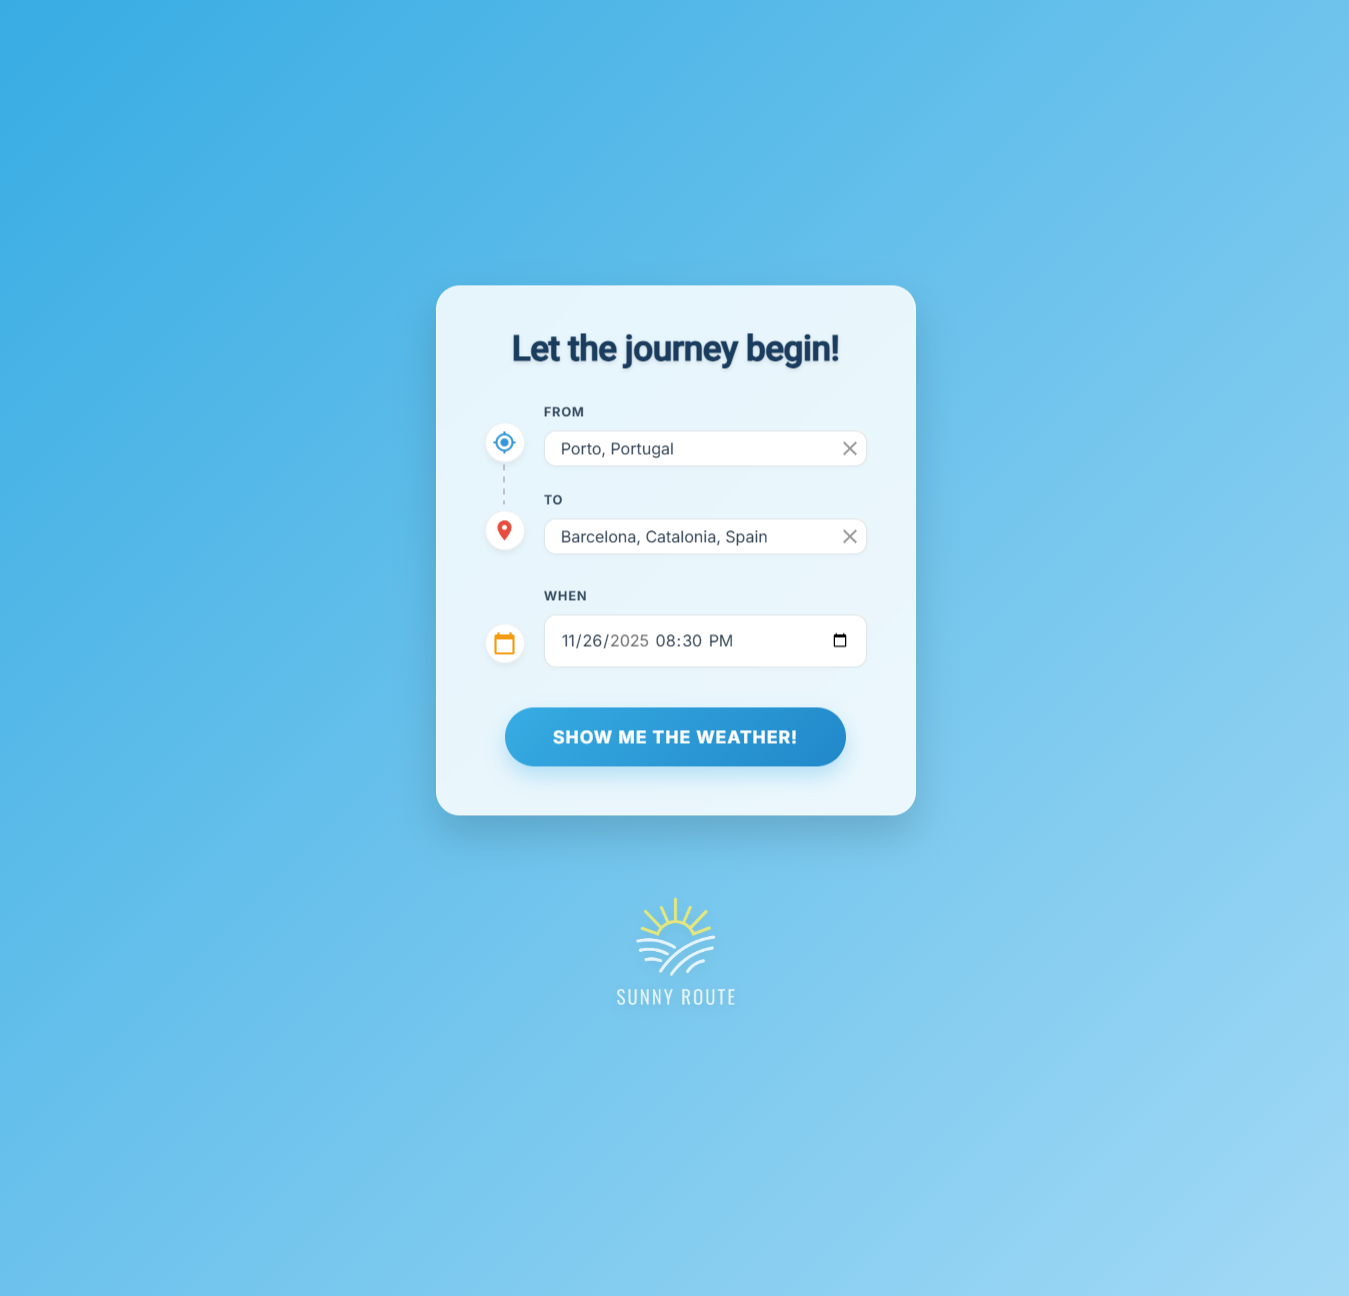
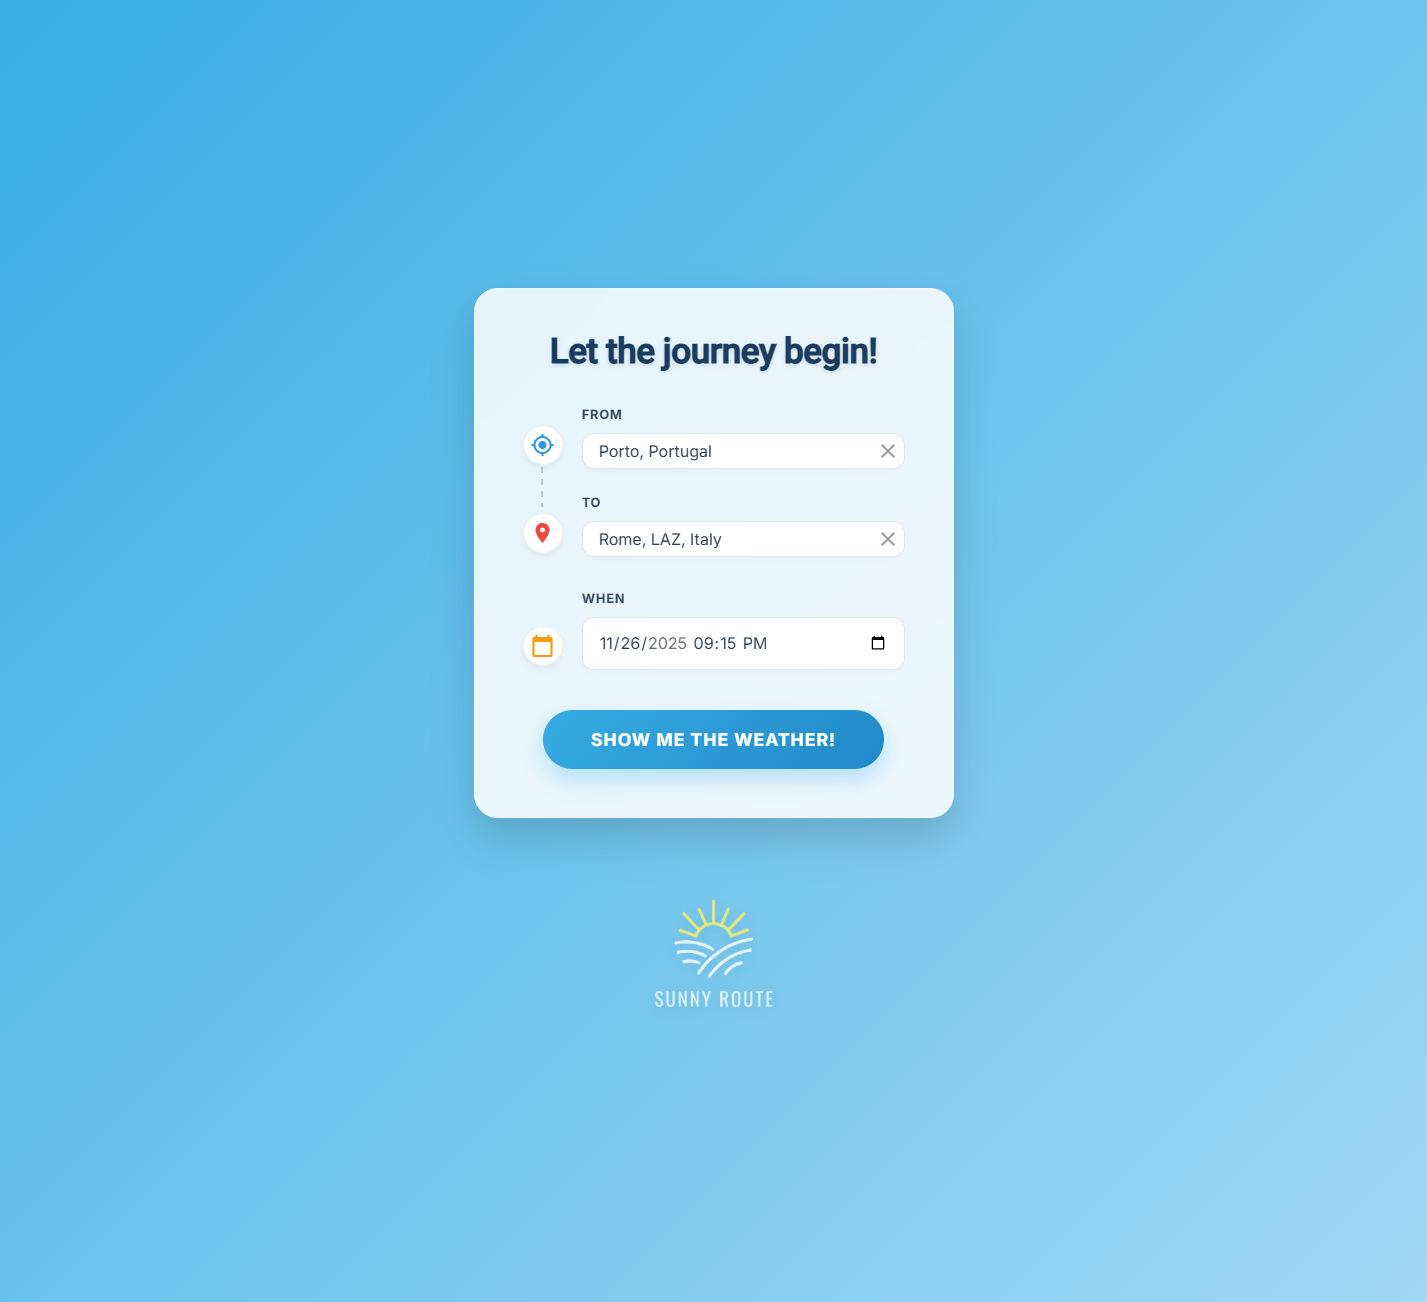
small css changes

diff --git a/src/app/views/view-route/view-route.component.css b/src/app/views/view-route/view-route.component.css
@@ -12,7 +12,7 @@
     display: flex;
     align-items: center;
     height: 4rem;
-    padding: 0 2rem;
+    padding: 0 1rem;
     box-shadow: 0 2px 10px rgba(0, 0, 0, 0.1);
     z-index: 1000;
 }
@@ -108,7 +108,7 @@
     font-weight: 400;
     opacity: 0.9;
     display: block;
-    margin-top: 0.5rem;
+    margin-top: 0.2rem;
 }
 
 #dinamic-weather-elements {

diff --git a/src/app/views/view-route/view-route.component.html b/src/app/views/view-route/view-route.component.html
@@ -26,7 +26,6 @@
           Weather Information
           <br>
           <span class="route-info">{{starting_location}} - {{destination}}</span>
-          <br>
           <span class="route-info">{{date_formated}}</span>
         </div>
         <div id="dinamic-weather-elements">
